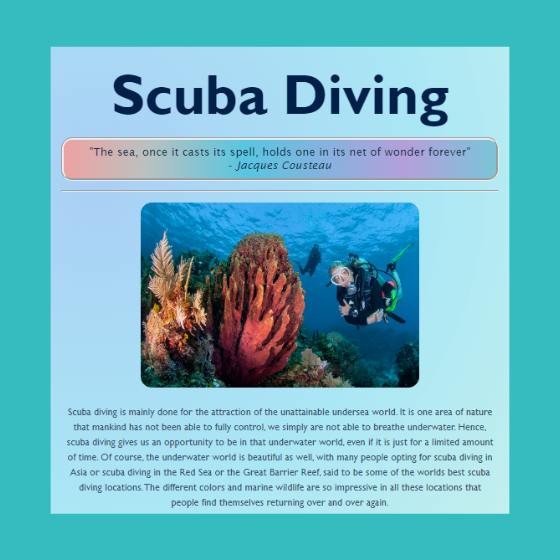
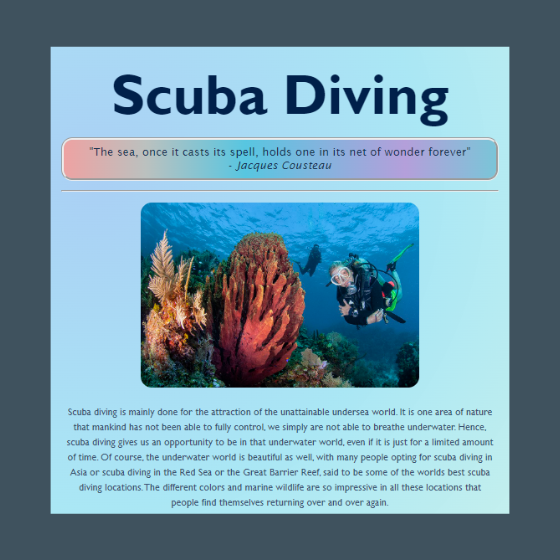
Updated images, fonts and buttons

diff --git a/src/style.css b/src/style.css
@@ -1,7 +1,7 @@
 :root {
   --primary-colour: #35bcbf;
   --main-font: "Montserrat", sans-serif;
-  --background-colour: #282323;
+  --background-colour: #3f525e;
   --logo-font: "Shadows Into Light", cursive;
 }
 
@@ -25,7 +25,7 @@ h1 {
     rgb(74, 98, 110) 131%
   );
   color: var(--primary-colour);
-  padding: 120px 20px;
+  padding: 140px 20px;
 }
 
 .hero p {
@@ -73,6 +73,7 @@ h1 {
 }
 
 .main-pics {
+  width: 400px;
   border-radius: 20px;
 }
 
@@ -94,4 +95,41 @@ h1 {
 
 .certificates {
   max-width: 500px;
+}
+
+footer .social-links a {
+  margin: 0 20px;
+  color: var(--primary-colour);
+  font-size: 40px;
+  background-color: var(--background-colour);
+  padding: 10px 20px;
+  border-radius: 50%;
+  transition: all 100ms ease-in-out;
+}
+
+footer .social-links a:hover,
+.btn:hover {
+  color: var(--background-colour);
+  background-color: var(--primary-colour);
+}
+
+.btn {
+  font-weight: bold;
+  color: var(--primary-colour);
+  border: none;
+  background-color: var(--background-colour);
+  padding: 10px 20px;
+  border-radius: 20px;
+  transition: all 100ms ease-in-out;
+}
+
+.small-title {
+  font-family: var(--logo-font);
+  font-size: 50px;
+  font-weight: bold;
+  text-decoration: underline;
+}
+
+.featured-projects h2 {
+  font-family: var(--logo-font);
 }

diff --git a/index.html b/index.html
@@ -65,13 +65,14 @@
     <div class="hero">
       <p>Hello, I am</p>
       <h1>Kate Perry</h1>
-      <h2>Student Front-End Developer based in Wales</h2>
+      <h2>Front-End Developer based in Wales</h2>
+      <br />
       <a href="#" class="btn btn-primary">Contact Me</a>
     </div>
 
-    <p class="text-center m-5">Featured Projects</p>
+    <h2 class="text-center m-5 small-title">Featured Projects</h2>
 
-    <div class="container">
+    <div class="container featured-projects">
       <div class="row mb-5">
         <div class="col">
           <img
@@ -116,6 +117,23 @@
           />
         </div>
       </div>
+
+      <footer>
+        <div class="social-links mb-5 d-flex justify-content-center">
+          <a href="mailto:kateperry.dev@gmail.com"
+            ><i class="fa-regular fa-envelope"></i
+          ></a>
+
+          <a
+            href="https://www.linkedin.com/in/kate-perry-923169256"
+            target="_blank"
+            ><i class="fa-brands fa-linkedin"></i
+          ></a>
+          <a href="https://www.github.com/katep1005" target="_blank"
+            ><i class="fa-brands fa-github"></i
+          ></a>
+        </div>
+      </footer>
     </div>
   </body>
 </html>
